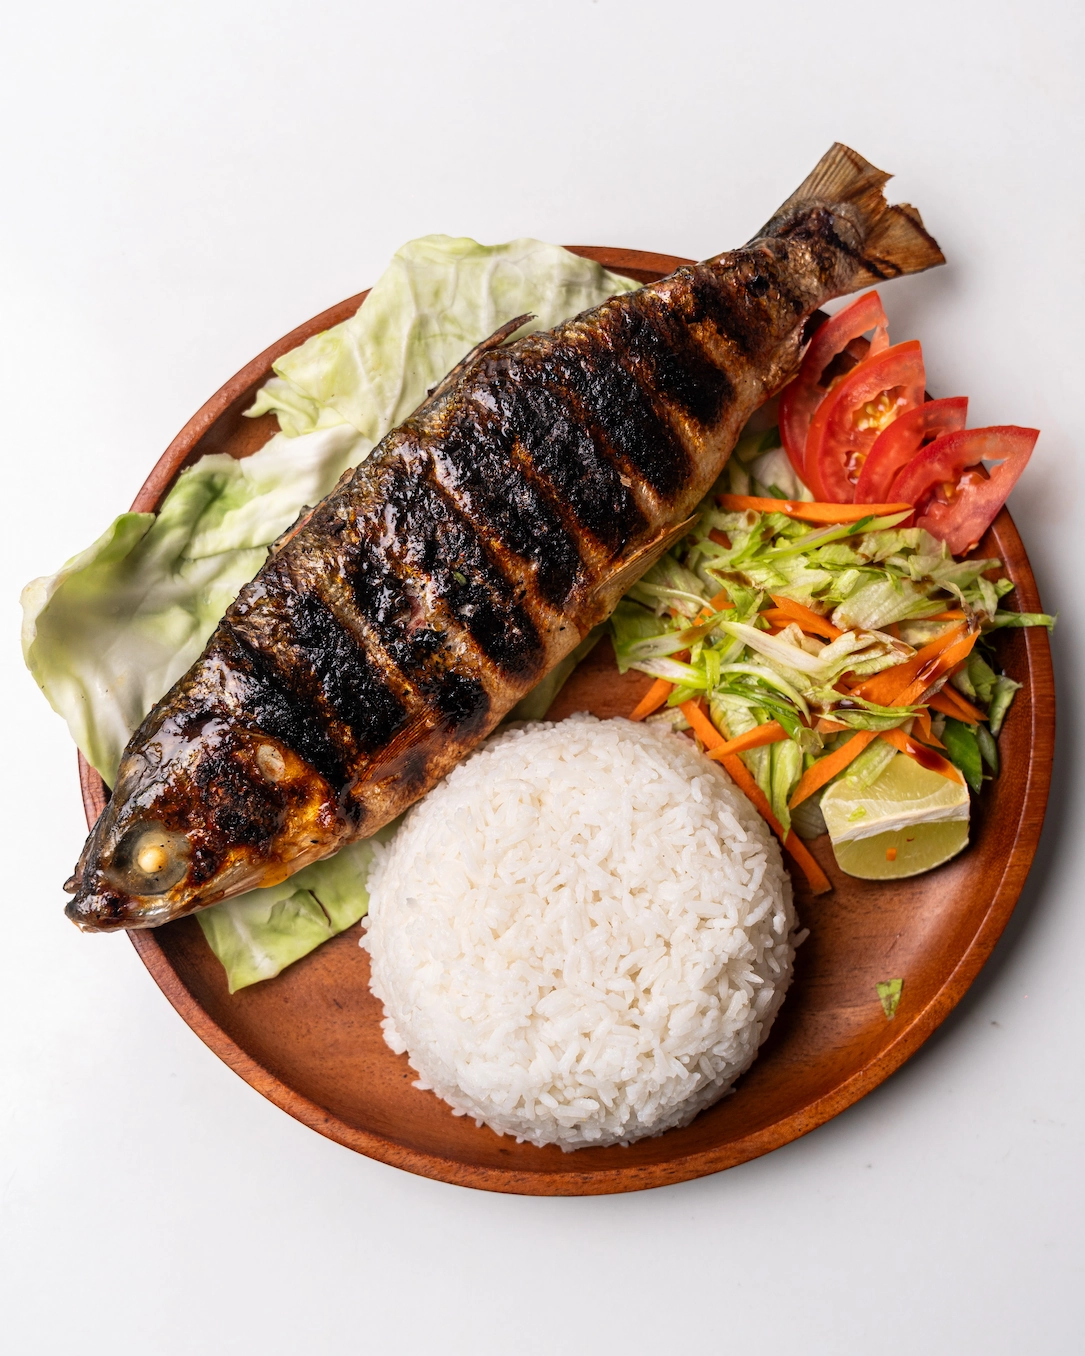
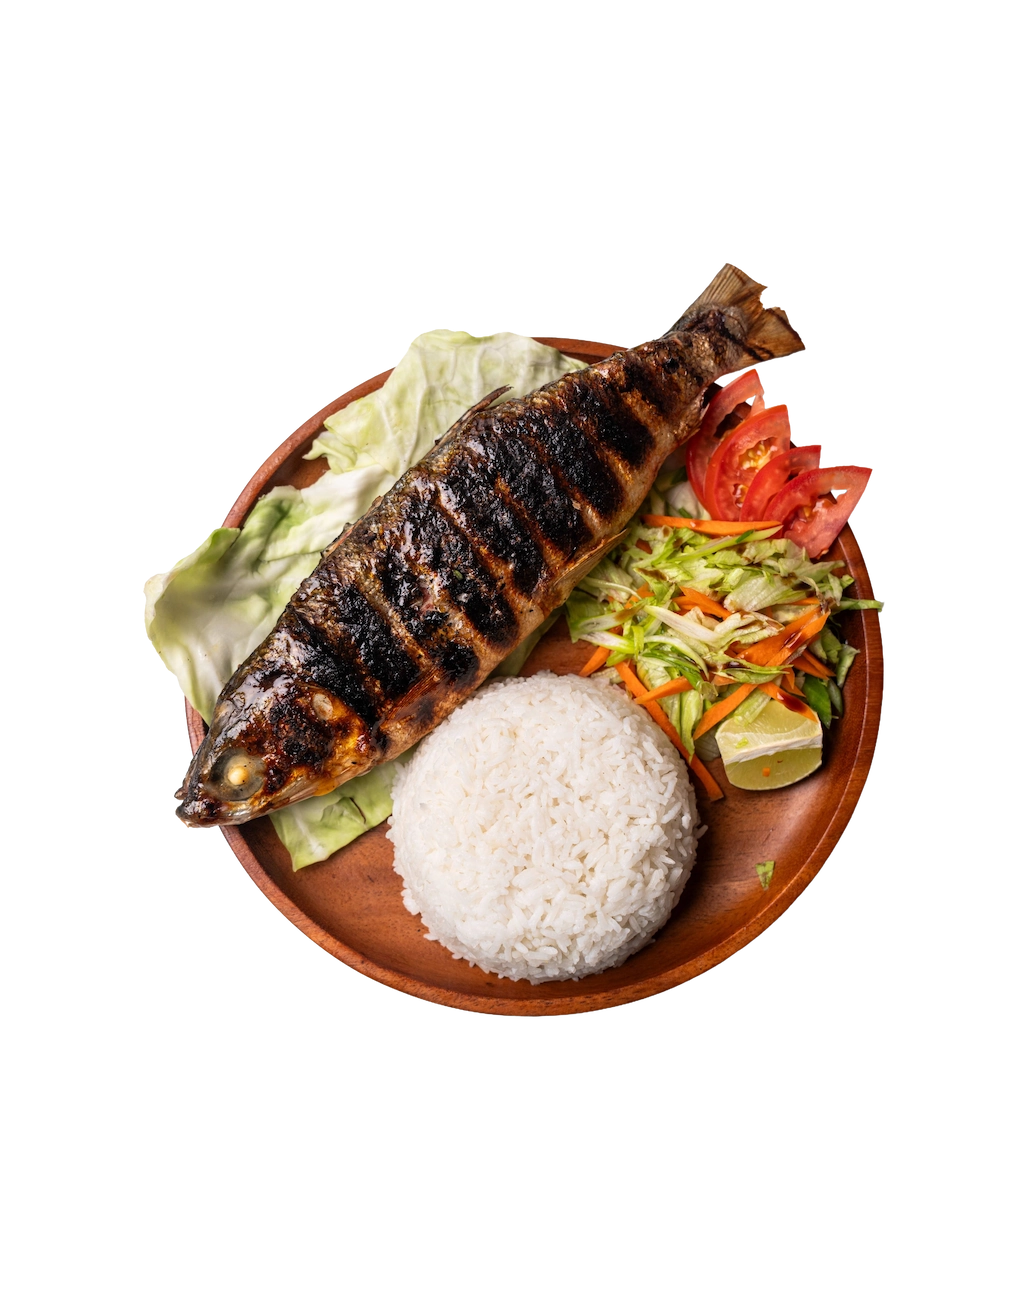
feat: menu images with no bg

diff --git a/src/app/menu/_components/menuData.js b/src/app/menu/_components/menuData.js
@@ -14,7 +14,7 @@ export const menu = [
   {
     name: 'Inasal Pecho',
     price: 28,
-    image: '/menuImages/inasalPecho.webp',
+    image: '/menuImages/inasal-pecho.webp',
     tabs: ['Full Menu', 'Inasal Specials'],
     label: 'Served with unlimited rice',
     description: ''
@@ -22,7 +22,7 @@ export const menu = [
   {
     name: 'Inasal Paa',
     price: 27,
-    image: '/menuImages/inasalPaa.webp',
+    image: '/menuImages/inasal-paa.webp',
     tabs: ['Full Menu', 'Inasal Specials'],
     label: 'Served with unlimited rice',
     description: ''
